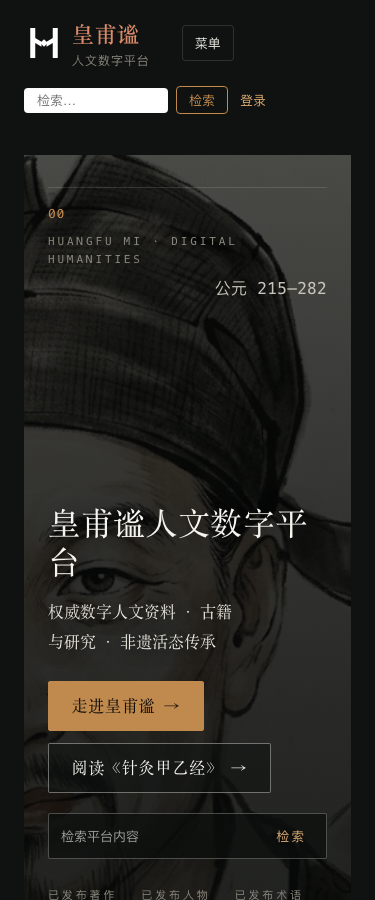
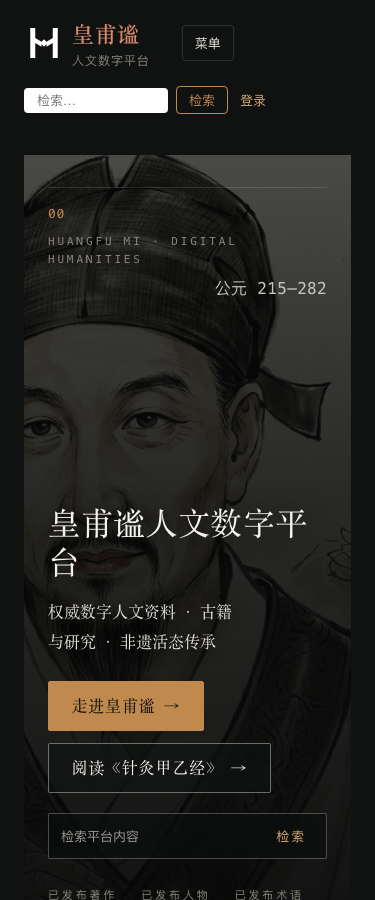
refactor(home): apply content contract v1.1 — five things on the first screen
The three decisions the content list made concrete.

The entry band moved out of the hero and onto the second screen as its own
solid band. It was inside #home-hero, which is what made the first screen
carry eight things. The opening is now the image, the title, the line, the two
entries and the search — five, as §4.2 requires. The band sits as a <nav>
rather than a section, which is also why the contract's block-count assertion
is untouched.

The book band's four numbers now describe the book: 86 published editions, 21
imprint scans, 149 chapters, 1007 passages. It previously read 版本记录 /
收录版本 / 原刻影印 / 篇章, where the first two are the same fact counted two
ways. Platform scale — works, persons, terms — lives only in the hero's
footnote now, per the rule that a number never appears twice.

The heritage band's "进入传承档案" button is gone. Three material cards and a
button all pointed at /heritage; the cards are the links.

One test list entry left with the removed button — polish.spec's CTA-arrow
sweep enumerated .home-heritage__act-arr. Removed with a comment citing
§4.2 hard convention 3, so the omission reads as a decision rather than a
skip. The sweep's purpose, that every CTA arrow shares one hover affordance,
still holds over every arrow that exists.

Homepage 6790px → 6685px, first screen down from eight elements to five.
282 unit tests, 97 e2e, vue-tsc clean, no overflow at three widths.

diff --git a/apps/frontend/src/components/home/HomeBookSection.vue b/apps/frontend/src/components/home/HomeBookSection.vue
@@ -76,15 +76,12 @@ const t0 = computed(() => {
           </figure>
 
           <!-- §4 统计带：数字是真实的，标签说清它数的是什么 -->
+          <!-- 四个数字只说这本书。平台规模（著作/人物/术语）由首屏底注承担，
+               契约 §4.2 硬约定 2：同一数字不得两处出现。 -->
           <dl class="xl-stats book__stats">
             <div class="xl-stat">
-              <dd class="xl-stat__value">{{ INVENTORY_EDITION_RECORDS }}</dd>
-              <dt class="xl-stat__label">版本记录</dt>
-              <dd class="xl-stat__note">据客户资料目录审计</dd>
-            </div>
-            <div class="xl-stat">
-              <dd class="xl-stat__value">{{ HOME_BOOK.editionsTotal }}</dd>
-              <dt class="xl-stat__label">收录版本</dt>
+              <dd class="xl-stat__value">{{ t0?.editions ?? HOME_BOOK.editionsTotal }}</dd>
+              <dt class="xl-stat__label">已发布版本</dt>
               <dd class="xl-stat__note">历代刊本与近现代整理本</dd>
             </div>
             <div class="xl-stat">
@@ -96,6 +93,11 @@ const t0 = computed(() => {
               <dd class="xl-stat__value">149</dd>
               <dt class="xl-stat__label">篇章</dt>
               <dd class="xl-stat__note">12 卷，已结构化</dd>
+            </div>
+            <div class="xl-stat">
+              <dd class="xl-stat__value">1007</dd>
+              <dt class="xl-stat__label">段落</dt>
+              <dd class="xl-stat__note">逐段编号，可引用</dd>
             </div>
           </dl>
         </div>

diff --git a/apps/frontend/src/views/HomeView.vue b/apps/frontend/src/views/HomeView.vue
@@ -14,6 +14,7 @@
  */
 import { computed, ref } from 'vue'
 import { useRouter } from 'vue-router'
+import { HOME_DOMAINS } from '../data/homeProjection'
 import { useHomeContractData } from '../composables/useHomeContractData'
 import HomeHeroSection from '../components/home/HomeHeroSection.vue'
 import HomePersonSection from '../components/home/HomePersonSection.vue'
@@ -49,6 +50,19 @@ function onSearch(): void {
       search-label="平台内容检索"
       :block="home"
     />
+    <!-- 四入口带：契约 §4.2 规定它属于次屏，不在首屏之内。 -->
+<nav id="home-entries" class="xl-entries home__entries" aria-label="主要探索入口">
+      <a v-for="d in HOME_DOMAINS.domains" :key="d.no" class="xl-entry" :href="d.href">
+        <svg class="xl-entry__mark" viewBox="0 0 32 32" fill="none" aria-hidden="true">
+          <rect x="6" y="5" width="20" height="22" stroke="currentColor" stroke-width="1.2" />
+          <path d="M11 11h10M11 16h10M11 21h6" stroke="currentColor" stroke-width="1.2" />
+        </svg>
+        <span class="xl-entry__en">{{ d.en }}</span>
+        <p class="xl-entry__title">{{ d.title }}</p>
+        <p class="xl-entry__note">{{ d.key }}</p>
+        <span class="xl-entry__go">{{ d.cta }} →</span>
+      </a>
+    </nav>
     <HomePersonSection :block="person" />
     <HomeYanSection />
     <HomeBookSection :work="work" :editions="editions" />

diff --git a/apps/frontend/src/components/home/HomeHeroSection.vue b/apps/frontend/src/components/home/HomeHeroSection.vue
@@ -12,7 +12,7 @@
  * homepage search input.
  */
 import { computed } from 'vue'
-import { HOME_DOMAINS, HOME_HERO } from '../../data/homeProjection'
+import { HOME_HERO } from '../../data/homeProjection'
 import { CORE_PERSON_DATES, CORE_PERSON_PORTRAIT_MEDIA_ID } from '../../config/corePerson'
 import { mediaBytesUrl } from '../../services/media'
 import type { BlockData } from '../../composables/useHomeContractData'
@@ -116,19 +116,6 @@ const portraitUrl = mediaBytesUrl(CORE_PERSON_PORTRAIT_MEDIA_ID)
       </div>
     </div>
 
-    <!-- 四入口带落在实底上，不压在图上 —— 字压图只留给首屏那几行。 -->
-    <nav class="xl-entries hero__entries" aria-label="主要探索入口">
-      <a v-for="d in HOME_DOMAINS.domains" :key="d.no" class="xl-entry" :href="d.href">
-        <svg class="xl-entry__mark" viewBox="0 0 32 32" fill="none" aria-hidden="true">
-          <rect x="6" y="5" width="20" height="22" stroke="currentColor" stroke-width="1.2" />
-          <path d="M11 11h10M11 16h10M11 21h6" stroke="currentColor" stroke-width="1.2" />
-        </svg>
-        <span class="xl-entry__en">{{ d.en }}</span>
-        <p class="xl-entry__title">{{ d.title }}</p>
-        <p class="xl-entry__note">{{ d.key }}</p>
-        <span class="xl-entry__go">{{ d.cta }} →</span>
-      </a>
-    </nav>
   </section>
 </template>
 

diff --git a/apps/frontend/src/styles/home-scale.css b/apps/frontend/src/styles/home-scale.css
@@ -575,3 +575,17 @@
   outline: 2px solid var(--wl-mark);
   outline-offset: 3px;
 }
+
+/* ---- 次屏四入口带（契约 §4.2：它属于次屏，不在首屏之内） ----
+   落在实底上、两侧收到内容宽度 —— 与首屏的整屏铺底形成一次明确的切换。 */
+.home__entries {
+  max-width: 78rem;
+  margin: 0 auto;
+  border-top: 1px solid var(--wl-rule);
+  border-bottom: 1px solid var(--wl-rule);
+}
+@media (max-width: 1300px) {
+  .home__entries {
+    margin-inline: var(--hfm-space-6);
+  }
+}

diff --git a/apps/frontend/src/components/home/HomeHeritageSection.vue b/apps/frontend/src/components/home/HomeHeritageSection.vue
@@ -89,13 +89,6 @@ const shown = computed(() => t0Projects.value.slice(0, 6))
       <p v-else class="fallback-note" data-fallback-note>
         数据库非遗档案尚未发布 · 以上为离线兜底（客户材料）
       </p>
-
-      <p class="heritage__foot">
-        <a class="home-heritage__act xl-go" href="/heritage">
-          进入传承档案
-          <span class="home-heritage__act-arr xl-go__arr" aria-hidden="true">→</span>
-        </a>
-      </p>
     </div>
   </section>
 </template>

diff --git a/apps/frontend/e2e/polish.spec.ts b/apps/frontend/e2e/polish.spec.ts
@@ -24,7 +24,8 @@ const CTA_ARROWS = [
   '.home-person__act-arr',
   '.home-yan__act-arr',
   '.home-book__act-arr',
-  '.home-heritage__act-arr',
+  // 非遗段不再有独立 CTA：契约 v1.1 §4.2 硬约定 3 —— 三张材料卡本身就是入口，
+  // 另设按钮等于四个链接通向同一页。故该选择器已不存在，不是被跳过。
   '.home-closing__act-arr',
 ]
 
